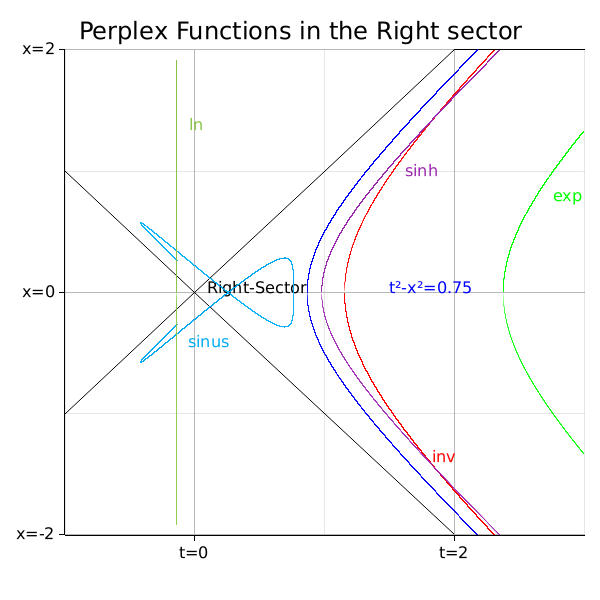
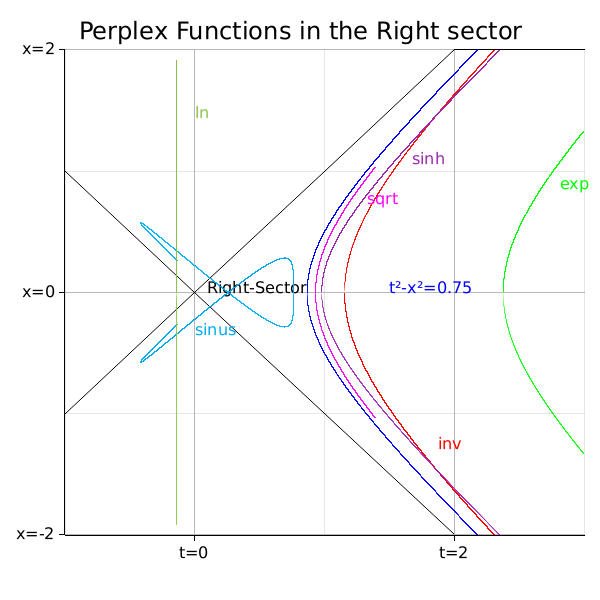
add sqrt, tan, tanh and log

diff --git a/src/perplex.rs b/src/perplex.rs
@@ -178,8 +178,30 @@ impl<T: Copy + Float> Perplex<T> {
         })
     }
 
-    // TODO sqrt, log
+    /// Returns the logarithm of `self` with respect to an arbitrary base, if the natural logarithm of `self` exists, according to the formula `ln(self) / ln(base)`.
+    #[inline]
+    pub fn log(self, base: T) -> Option<Self> {
+        self.ln().map(|z| z / base.ln())
+    }
+
     // TODO cbrt, powf, powc, expf for Perplex ?
+
+    /// Computes the square root of `self` if `self` lies in the right sector, or returns `None` if not. Formula is taken from Eq. 2.23 in [New characterizations of the ring of the split-complex numbers and the field C of complex numbers and their comparative analyses](https://doi.org/10.48550/arXiv.2305.04586).
+    #[inline]
+    pub fn sqrt(self) -> Option<Self> {
+        let t_x_add = self.t + self.x;
+        let t_x_sub = self.t - self.x;
+        if t_x_add >= T::zero() && t_x_sub >= T::zero() {
+            let sqrt_add = t_x_add.sqrt();
+            let sqrt_sub = t_x_sub.sqrt();
+            let two = T::one() + T::one();
+            let t = (sqrt_add + sqrt_sub) / two;
+            let x = (sqrt_add - sqrt_sub) / two;
+            Some(Perplex::new(t, x))
+        } else {
+            None
+        }
+    }
 
     /// Computes the sinus (circular trigonometric) of `self`. Formula is taken from Eq. 7.4.6 in [The Mathematics of Minkowski Space-Time](https://doi.org/10.1007/978-3-7643-8614-6).
     #[inline]
@@ -191,6 +213,11 @@ impl<T: Copy + Float> Perplex<T> {
     pub fn cos(self) -> Self {
         Self::new(self.t.cos() * self.x.cos(), self.t.sin() * self.x.sin())
     }
+    /// Computes the tangens (circular trigonometric) of `self` by the formula `sin(self) / cos(self)`. Returns `None` if `cos(self)` is light-like.
+    #[inline]
+    pub fn tan(self) -> Option<Self> {
+        self.sin() / self.cos()
+    }
     /// Computes the sinh (hyperbolic trigonometric) of `self`. Formula is taken from Eq. 7.4.5 in [The Mathematics of Minkowski Space-Time](https://doi.org/10.1007/978-3-7643-8614-6).
     #[inline]
     pub fn sinh(self) -> Self {
@@ -201,8 +228,13 @@ impl<T: Copy + Float> Perplex<T> {
     pub fn cosh(self) -> Self {
         Self::new(self.t.cosh() * self.x.cosh(), self.t.sinh() * self.x.sinh())
     }
+    /// Computes the tanh (hyperbolic trigonometric) of `self` by the formula `sinh(self) / cosh(self)`. Returns `None` if `cosh(self)` is light-like.
+    #[inline]
+    pub fn tanh(self) -> Option<Self> {
+        self.sinh() / self.cosh()
+    }
 
-    // TODO tan, asin, acos, atan, tanh, asinh, acosh, atanh ?
+    // TODO asin, acos, atan, asinh, acosh, atanh ?
 }
 
 impl<T: FloatCore> Perplex<T> {

diff --git a/examples/visualize_functions.rs b/examples/visualize_functions.rs
@@ -42,14 +42,19 @@ fn main() -> Result<(), Box<dyn std::error::Error>> {
         .map(|i| d + i as f64 * (t_max as f64 - d) / 100_000.0)
         .for_each(|t| {
             let x = (t * t - d).sqrt();
-            hyperbola_ru.push(Perplex::new(t, x));
-            hyperbola_rd.push(Perplex::new(t, -x));
+            if x.is_finite() {
+                hyperbola_ru.push(Perplex::new(t, x));
+                hyperbola_rd.push(Perplex::new(t, -x));
+            }
         });
 
     let functions: Vec<(&str, PerplexMap, &RGBColor)> = vec![
         (
             "inv",
-            Box::new(|z: &Perplex<f64>| z.try_inverse().expect("z is invertible")),
+            Box::new(|z: &Perplex<f64>| {
+                z.try_inverse()
+                    .expect("z is invertible since d is non-zero!")
+            }),
             &RED,
         ),
         ("sinus", Box::new(|z: &Perplex<f64>| z.sin()), &LIGHTBLUE),
@@ -59,6 +64,11 @@ fn main() -> Result<(), Box<dyn std::error::Error>> {
             "ln",
             Box::new(|z: &Perplex<f64>| z.ln().expect("The natural logarithm of z exists!")),
             &LIGHTGREEN,
+        ),
+        (
+            "sqrt",
+            Box::new(|z: &Perplex<f64>| z.sqrt().expect("Sqrt of a z in the Right sector exists!")),
+            &MAGENTA,
         ),
     ];
     // Highlight the Right sector
@@ -117,7 +127,7 @@ fn main() -> Result<(), Box<dyn std::error::Error>> {
         ))?;
         chart.draw_series(iter::once(Text::new(
             label.to_string(),
-            (label_pos.0 + 0.1, label_pos.1),
+            (label_pos.0 + 0.15, label_pos.1 + 0.1),
             font.clone().color(color),
         )))?;
     }

diff --git a/src/lib.rs b/src/lib.rs
@@ -219,8 +219,19 @@ mod tests {
         let pi = f64::PI();
         let z = Perplex::new(pi, pi / 2.0).sin();
         assert_abs_diff_eq!(z, Perplex::new(0.0, -1.0));
+        assert!(
+            z.tan().is_some(),
+            "Tangens of z should be defined since cos(z) is not light-like!"
+        );
         let zero: Perplex<f64> = Perplex::zero();
         assert_abs_diff_eq!(zero.sinh(), zero);
+        let z = Perplex::new(1.0, 0.0);
+        let expected_tanh = Perplex::new(z.t.tanh(), 0.0);
+        assert_eq!(
+            z.tanh(),
+            Some(expected_tanh),
+            "Tanh of z should be defined since cosh(z) is not light-like!"
+        );
     }
 
     #[test]
@@ -340,6 +351,26 @@ mod tests {
             z1 / 2.0,
             Perplex::new(0.5, 1.0),
             "Componentwise scalar division!"
+        );
+    }
+
+    #[test]
+    fn test_sqrt() {
+        // Test sqrt for a Perplex number in the Right sector (t > |x|)
+        let z_right = Perplex::new(2.0, 1.0);
+        assert!(
+            z_right.sqrt().is_some(),
+            "Sqrt should be defined for Perplex numbers in the Right sector."
+        );
+        // The expected result should be a Perplex number whose square equals z_right
+        if let Some(sqrt_z) = z_right.sqrt() {
+            assert_abs_diff_eq!(sqrt_z.powu(2), z_right, epsilon = 1e-10);
+        }
+        // Test sqrt for a Perplex number in the Left sector (t < -|x|)
+        let z_left = Perplex::new(-2.0, 1.0);
+        assert!(
+            z_left.sqrt().is_none(),
+            "Sqrt should not be defined for Perplex numbers in the Left sector."
         );
     }
 

diff --git a/README.md b/README.md
@@ -2,10 +2,7 @@
 [![MIT License](https://img.shields.io/badge/license-MIT-blue.svg)](./LICENSE-MIT) [![License](https://img.shields.io/badge/License-Apache_2.0-blue.svg)](./LICENSE-APACHE) [![minimum rustc 1.76](https://img.shields.io/badge/rustc-1.76+-red.svg)](https://rust-lang.github.io/rfcs/2495-min-rust-version.html)
 
 ## Overview
-`perplex_num` is a Rust crate that implements perplex numbers, with the `num_traits` crate providing the numerical foundations. This library includes a `Perplex` struct for representing perplex numbers 
-
-## Overview
-`perplex_num` is a Rust crate that provides an implementation of perplex numbers, based on the [num_traits](https://docs.rs/num-traits) crate. This library supports various mathematical functions such as `exp`, `ln`, `sinh`, `sin`, `cosh`, and `cos`. Additionally, the crate offers a hyperbolic polar form for representing and manipulating numbers in the hyperbolic plane, as well as a matrix form representation feature based on [nalgebra](https://docs.rs/nalgebra).
+`perplex_num` is a Rust crate that provides an implementation of perplex numbers, based on the numerical abstractions of the [num_traits](https://docs.rs/num-traits) crate. This library supports various mathematical functions such as `pow`, `sqrt`, `exp`, `ln`, `sinh`, `sin`, `cosh`, and `tan`. Additionally, the crate offers a hyperbolic polar form for representing and manipulating numbers in the hyperbolic plane, as well as a matrix form representation feature based on [nalgebra](https://docs.rs/nalgebra).
 
 ## Perplex Numbers
 Perplex numbers, also known as **split-complex**, **double** or **hyperbolic** numbers, are an extension of the real numbers $\mathbb R$ by introducing a new element $h$ with the property that $h^2=1$, which is distinct from the imaginary unit $i$ in complex numbers ($i^2=-1$). $h$ is referred to as **hyperbolic unit**. A perplex number $z$ is expressed as:
@@ -36,7 +33,7 @@ The hyperbolic plane can be divided into four distinct sectors by the intersecti
 - **Left Sector**: The left sector is the mirror image of the right sector, lying to the left of both diagonals. It is defined by $( -t > |x| )$, where the negative time component is greater in magnitude.
 - **Down Sector**: This sector is the mirror image of the up sector, defined by $( -x > |t| )$.
 
-These sectors are important in the study of hyperbolic geometry and perplex numbers, as they determine the nature of the functions and operations that can be performed within each region. Certain functions may only be well-defined or invertible in specific sectors of the hyperbolic plane. The square root of a perplex number, for instance, is only well-defined within the right sector.
+These sectors are important in the study of hyperbolic geometry and perplex numbers, as they determine the nature of the functions and operations that can be performed within each region. Certain functions may only be well-defined or invertible in specific sectors of the hyperbolic plane. The square root of a perplex number, for instance, is only defined within the right sector.
 
 The common categorization of perplex numbers is based on the squared distance. A number is:
 - **time**-like if D(z) > 0, i.e., it lies in the **Right** $(t>|x|)$ or **Left** $(-t>|x|)$ sector 
@@ -55,13 +52,11 @@ An interesting feature of the Klein group is that each element is its own multip
 
 ### Hyperbolic Functions
 
-Building upon the foundational operations such as addition and multiplication, the `perplex_num` crate includes a variety of functions tailored for perplex numbers. These functions are implemented to operate over the complete hyperbolic plane.
+Building upon the foundational operations such as addition and multiplication, the `perplex_num` crate includes a variety of functions tailored for perplex numbers. Most of the functions are implemented to operate over the complete hyperbolic plane.
 
 ![Perplex Functions](./examples/perplex_functions.jpg)
 
-**TODO** add sqrt
-
-The accompanying image provides a graphical representation of these functions, tracing their behavior across a specific hyperbola $H=\{z=(t,x)| t^2-x^2=0.75\}$(blue) in the right sector $(t>|x|)$. A curve of function $f$ corresponds to the image $f(H)$ of the hyperbola, visualizing the mapped perplex numbers $f(z)$.
+The accompanying image provides a graphical representation of a subset of these functions, tracing their behavior across a portion $(0.75 \le t < 3)$ of the hyperbola $H=\{z=(t,x)| t^2-x^2=0.75\}$(blue) in the right sector $(t>|x|)$. A curve of function $f$ corresponds to the image $f(H)$ of the hyperbola, visualizing the mapped perplex numbers $f(z)$.
 
 Multiplication by elements of the **Klein** group allows for the mapping of a perplex number from its original sector to another. This property is utilized in the implementation of functions like the exponential (**exp**) and natural logarithm (**ln**) to ensure consistency across the entire plane. For instance, to compute the exponential of a perplex number, the number is first mapped to the Right Sector, `exp` is applied, and then the result is mapped back to the original sector using the same element (which is the inverse). This approach guarantees that `ln` is the inverse of `exp` and vice versa.
 
